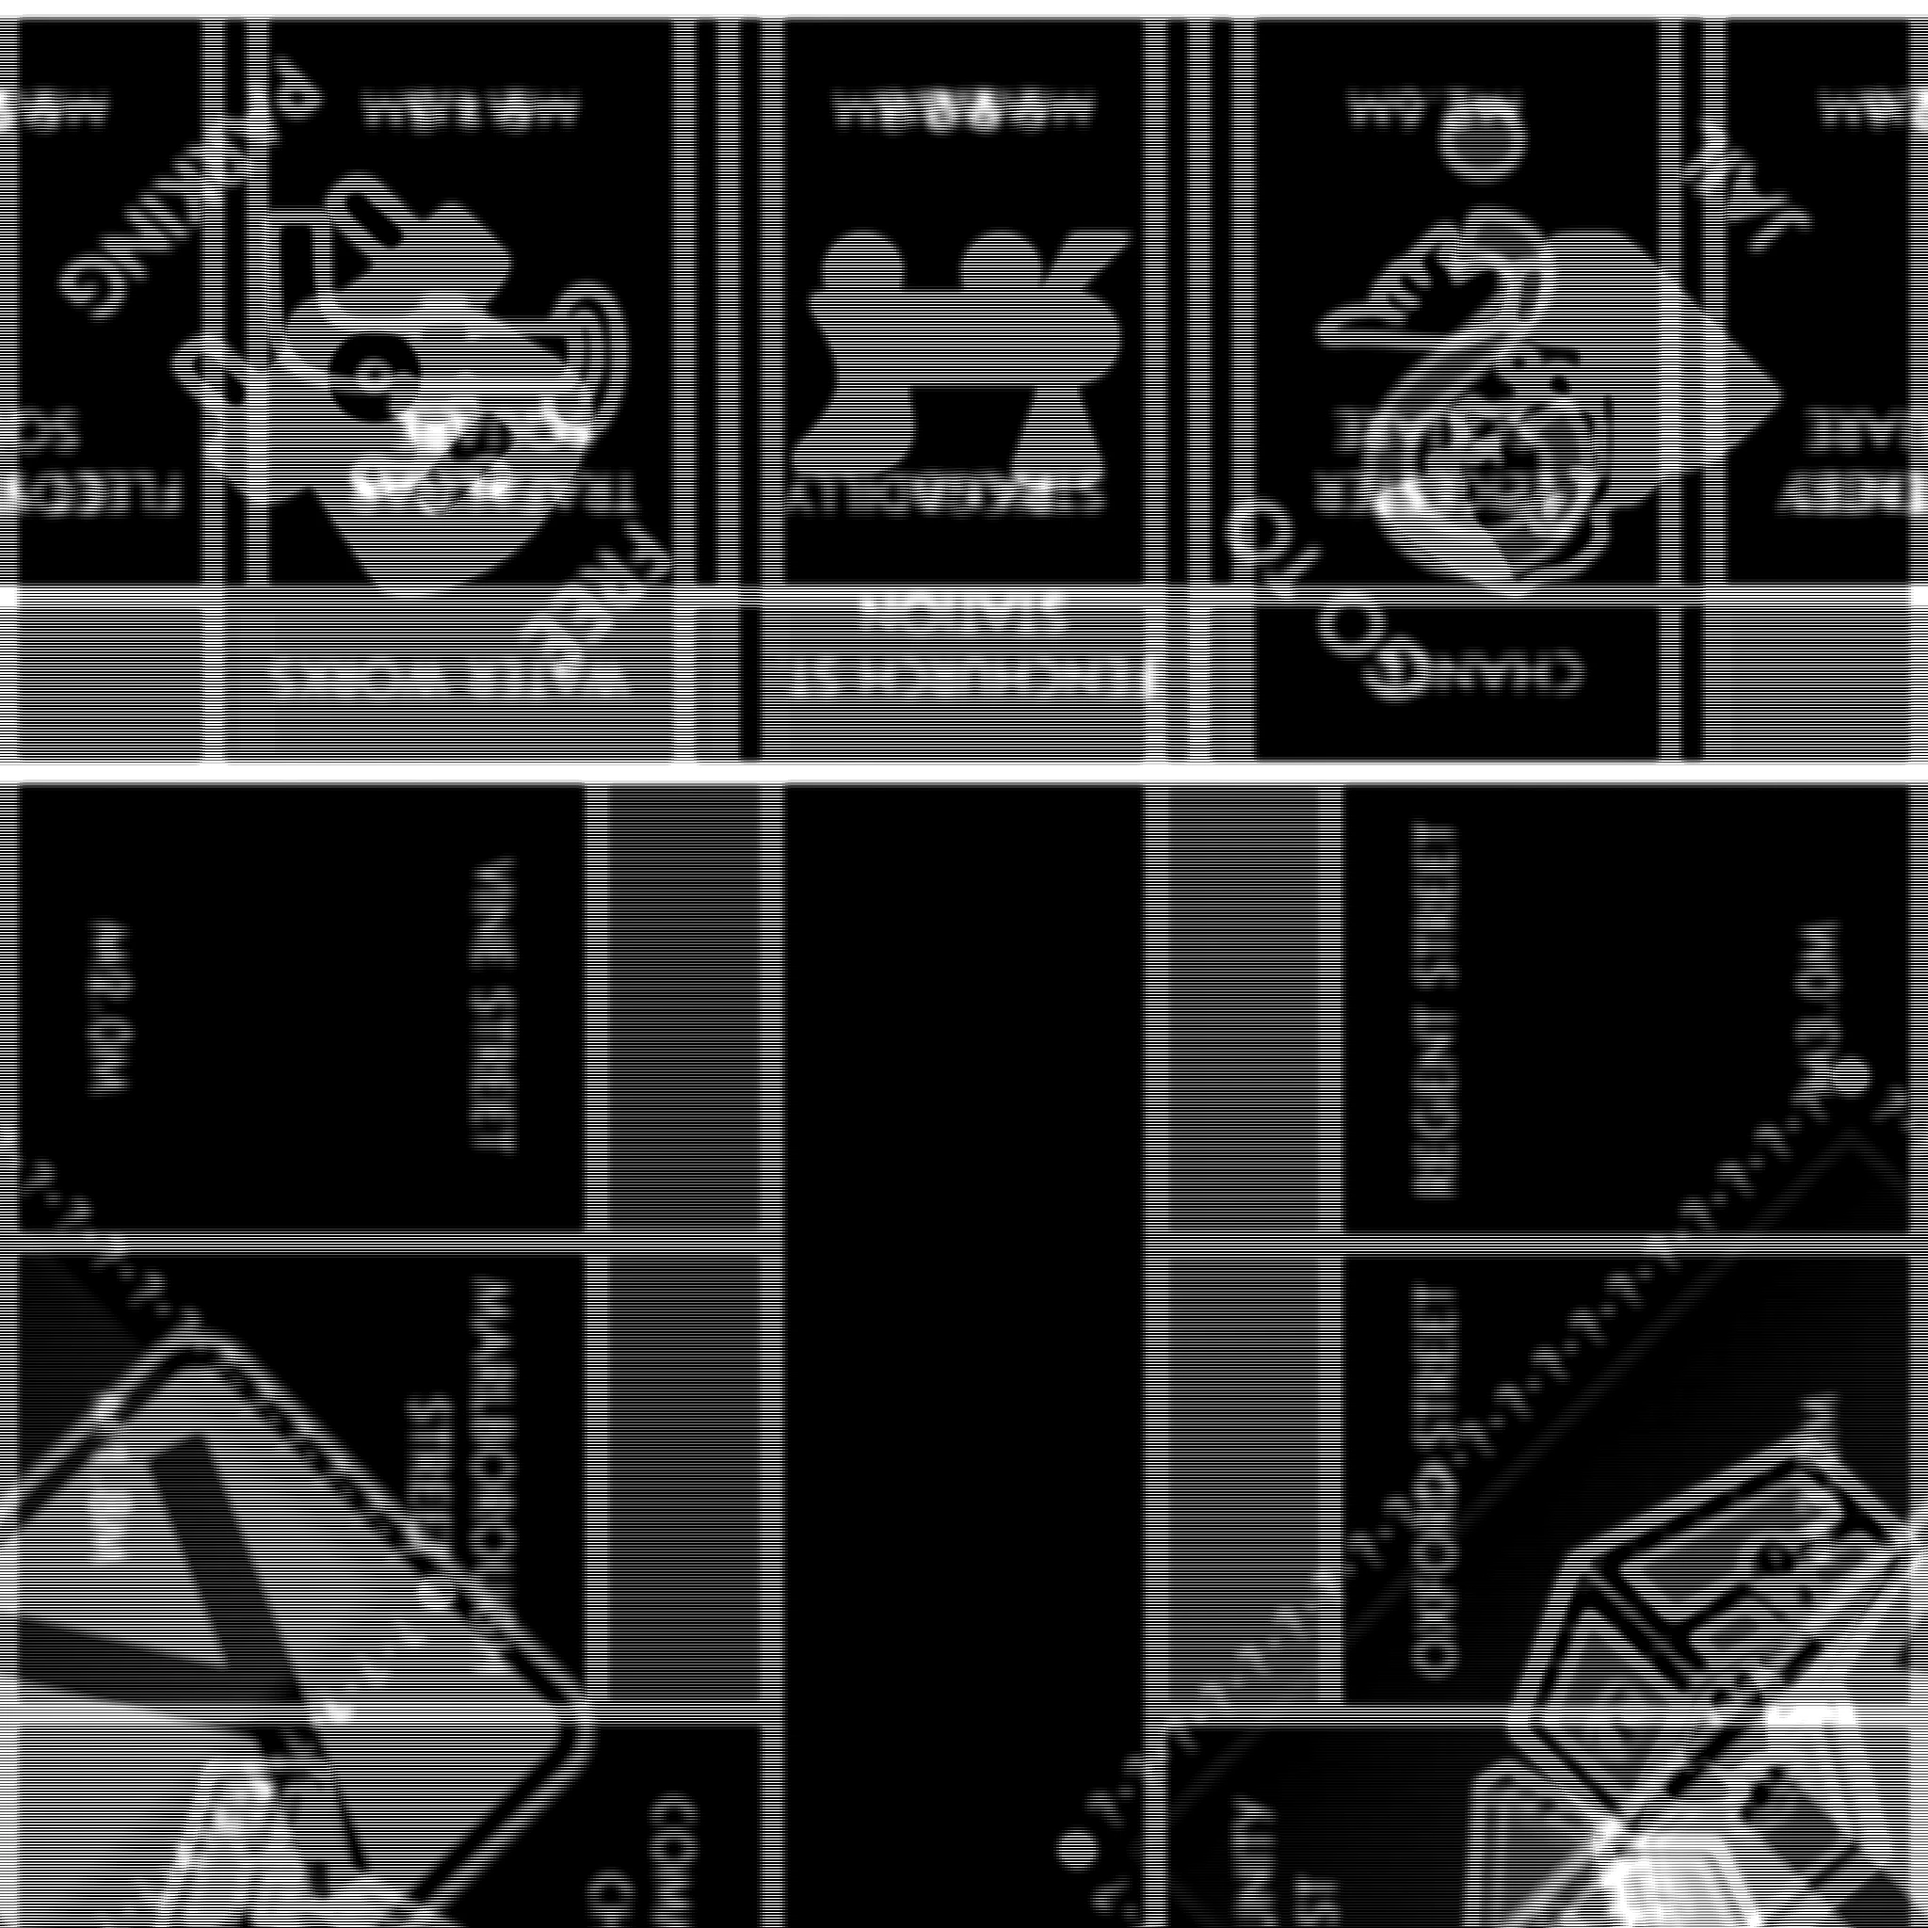
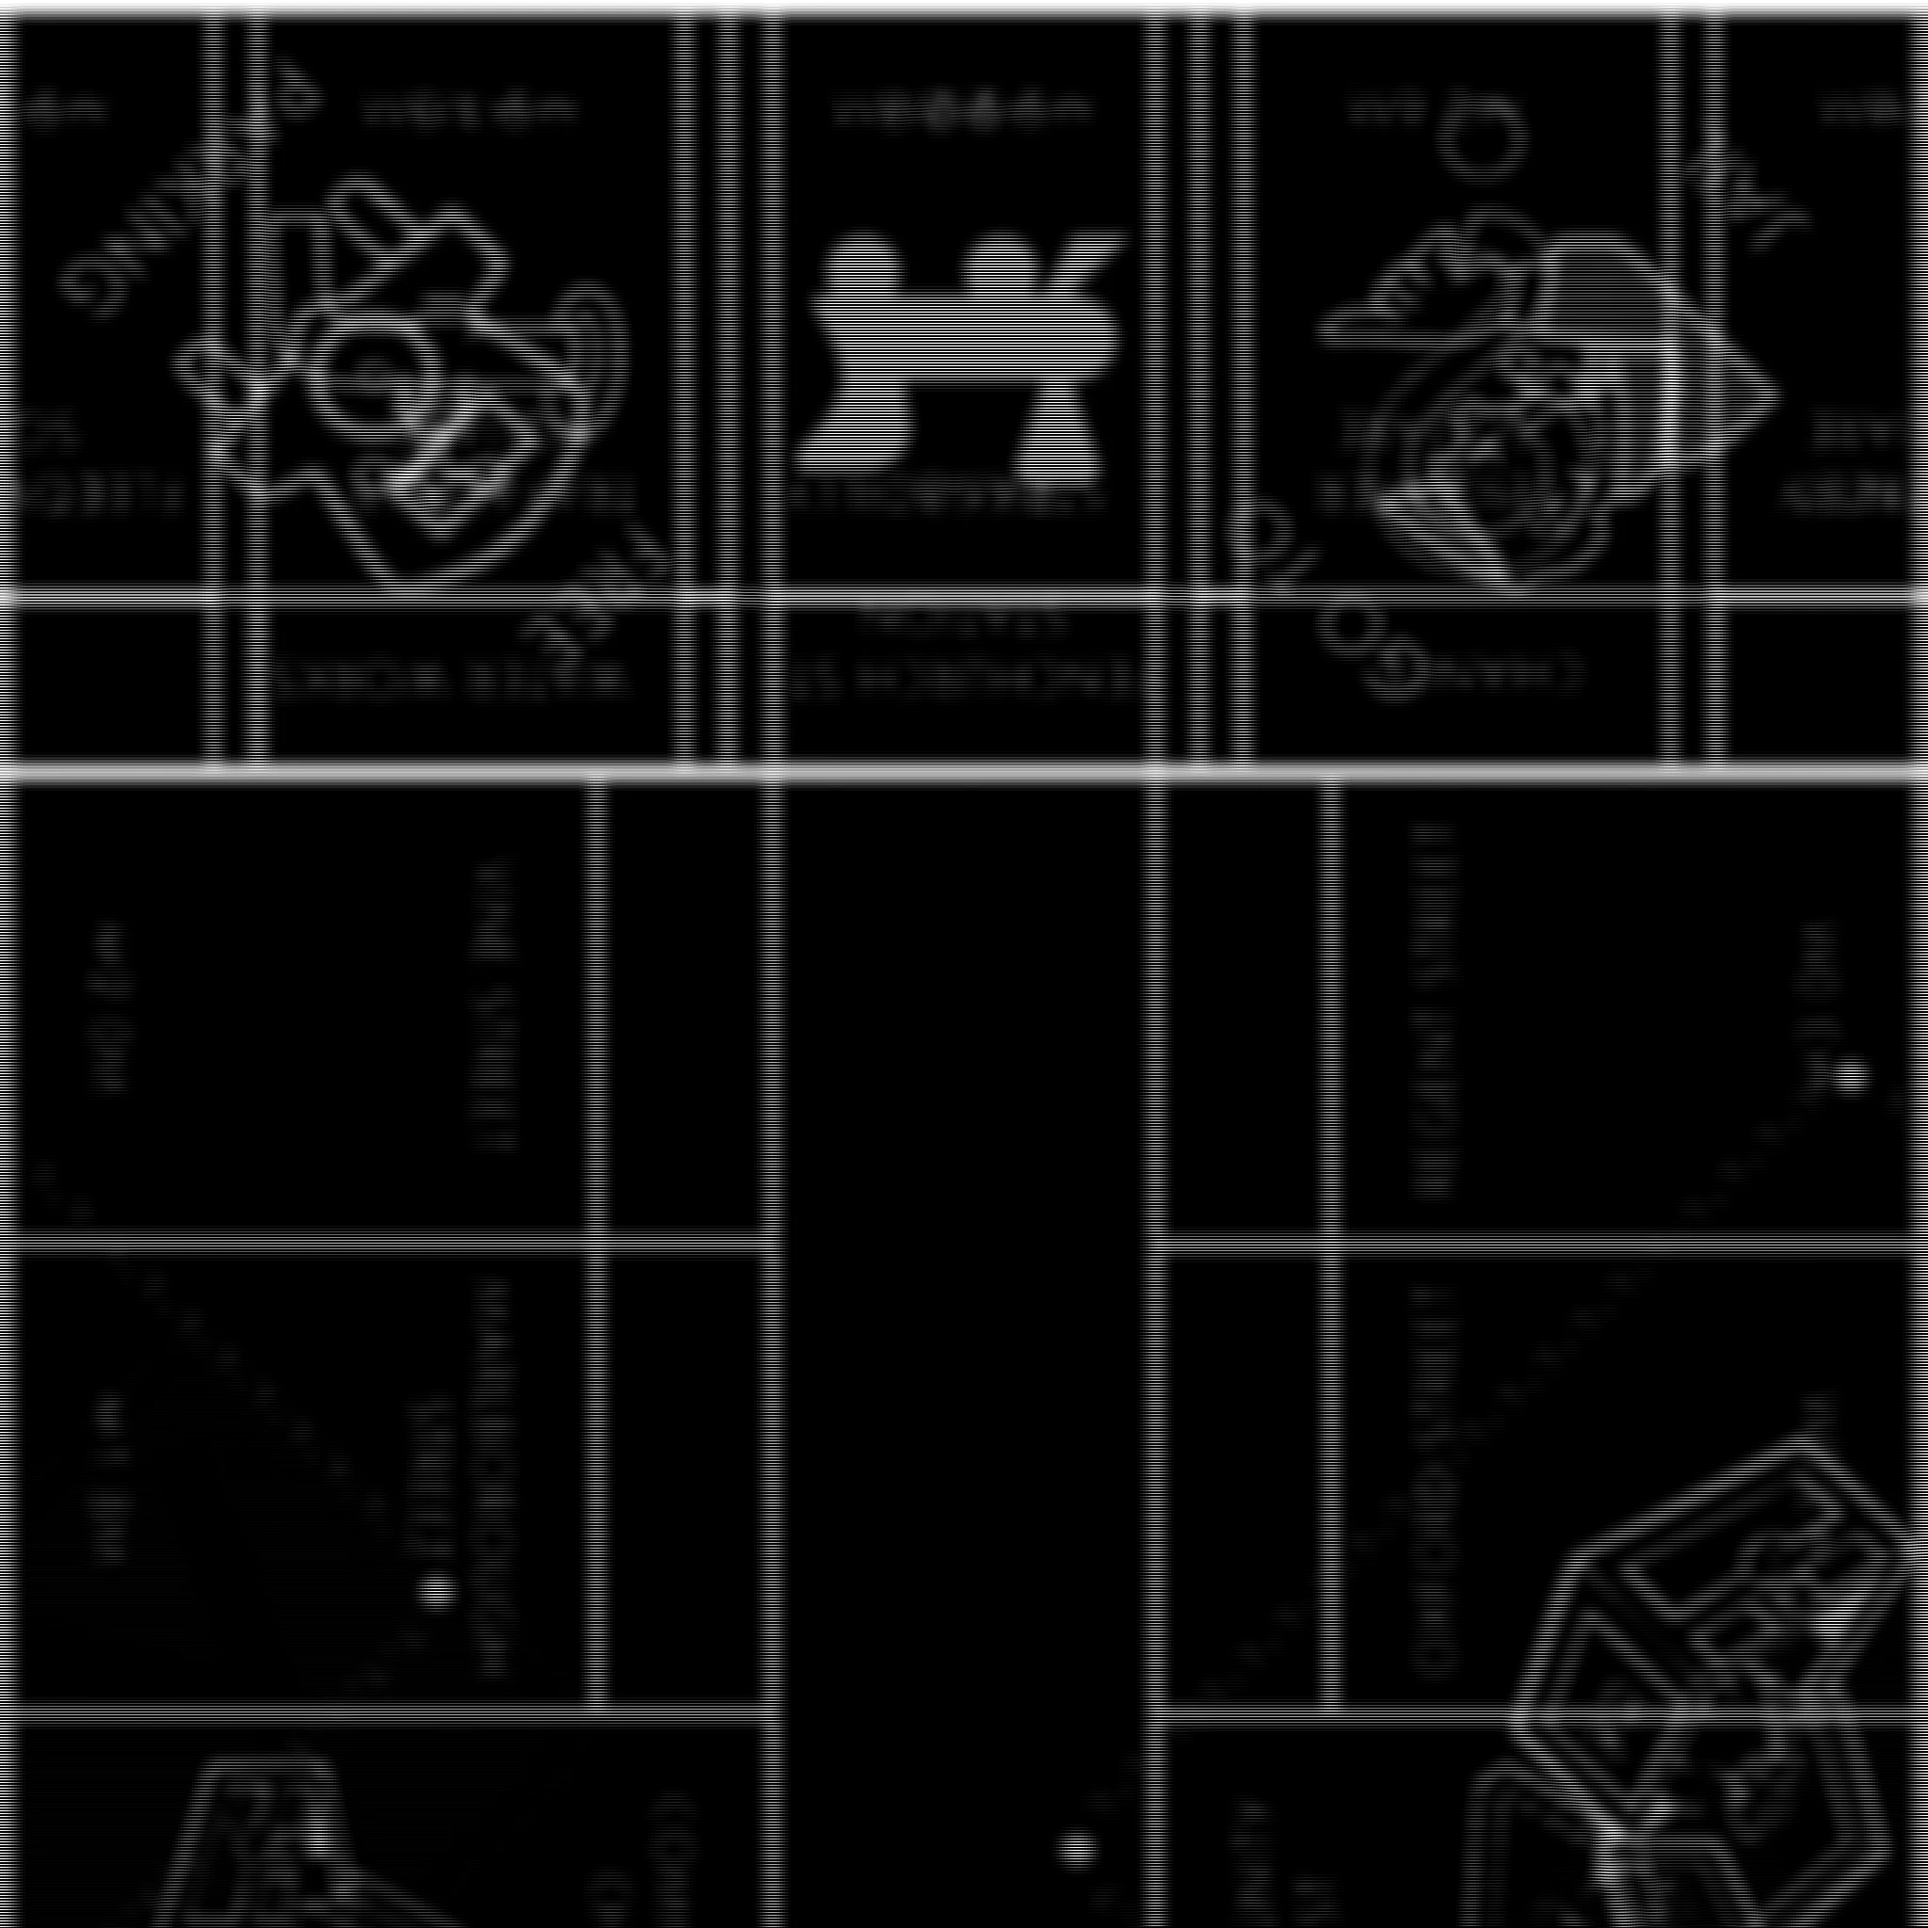
fix(board): ink-only smooth height bake — clean raised lines, no spikes
The displacement read as a noisy jagged mess: the old low-threshold height
bake ([0.12..0.55] dilate/remap) lifted the near-white tile faces' own texture
noise, which scale 0.15 amplified into spiky canyons.

- gen-board-normal.mjs (height output only; normal bake untouched): replace the
  low-threshold dilate/remap with a HIGH-gated smoothstep(INK_LO=0.55,
  INK_HI=0.85) on h = 1 - luminance so ONLY true black ink raises — paper,
  near-white faces and mid-tone colour strips all threshold to flat 0. Blur the
  thresholded field 2.5px AFTER the gate for clean beveled ridge sides (no
  spiky aliasing). Height map mean drops to ~16/255 (mostly flat).
- BoardTiles.tsx: BOARD_DISPLACEMENT_SCALE 0.15 -> 0.07 (moderate relief).
  displacementBias=0, segments 1024, height mipmaps OFF, normalScale 1.5 all
  unchanged. Displacement direction confirmed UP (+Y): plane normals are +Z,
  rotated -pi/2 about X -> +Y, so ink rises above the flat faces (no flip).
- CityDressing.tsx: CITY_Y 0.20 -> 0.12 (keeps 0.12 > 0.02+0.07, less float step).

Changed region(s): [[0.0, 0.0, 1.0, 1.0], [0.0312, 0.4688, 0.0625, 0.5625]]

diff --git a/src/board/BoardTiles.tsx b/src/board/BoardTiles.tsx
@@ -108,12 +108,16 @@ const BOARD_NORMAL_Y_SIGN = 1; // set to -1 if relief looks inverted
  *                             map's job; displacement is for borders/big features
  *                             + overall relief + silhouette). Mobile forces 0.
  *   BOARD_DISPLACEMENT_SCALE – world-unit height of the raised ink. Board is ~10
- *                             wide, tiles ~0.9; 0.04 reads as a firm embossed
- *                             print. Raise for more pop, lower if silhouette
- *                             looks lumpy or clips tokens/buildings.
+ *                             wide, tiles ~0.9; 0.07 reads as a firm embossed
+ *                             print with the ink-only smooth height bake. Raise
+ *                             for more pop, lower if silhouette looks lumpy or
+ *                             clips tokens/buildings. (Was 0.15 — that amplified
+ *                             the old noisy low-threshold bake into spiky canyons;
+ *                             0.07 + the ink-only smoothstep bake reads as clean
+ *                             raised lines/letters, not spikes.)
  */
 const BOARD_SEGMENTS = 1024;
-const BOARD_DISPLACEMENT_SCALE = 0.15;
+const BOARD_DISPLACEMENT_SCALE = 0.07;
 /**
  * Nudge the slab's flat top face just below the displaced plane so the original
  * flat top never coincides with (z-fights) the subdivided displaced surface.
@@ -230,9 +234,14 @@ export function BoardTiles() {
       BOARD_NORMAL_STRENGTH * BOARD_NORMAL_Y_SIGN,
     );
 
-    // REAL DISPLACEMENT: push the subdivided top plane's vertices +Y by
-    // height * scale. Height ≈ 0 (light paper) stays at the surface; height ≈ 1
-    // (dark ink) raises. Bias 0 so flat tile faces sit exactly at TOP_Y. This
+    // REAL DISPLACEMENT: push the subdivided top plane's vertices UP (+Y) by
+    // height * scale. Direction confirmed +Y: PlaneGeometry vertex normals are
+    // +Z; the plane mesh is rotated -π/2 about X, which maps +Z → +Y, so three's
+    // displacement (vertex += normal * displacementScale*height) pushes ink
+    // UPWARD above the flat faces (no normal flip needed). Height ≈ 0 (paper +
+    // near-white faces + colour strips, thresholded flat by the ink-only bake)
+    // stays exactly at the surface; height ≈ 1 (dark ink) raises. Bias 0 so flat
+    // tile faces sit exactly at TOP_Y (coplanar). This
     // only visibly deforms the dense plane below; the slab's coarse top face has
     // no interior verts to move and is dropped out of view anyway (SLAB_TOP_DROP).
     top.displacementMap = heightTex;

diff --git a/src/board/CityDressing.tsx b/src/board/CityDressing.tsx
@@ -56,7 +56,7 @@ import { useGLTF } from '@react-three/drei';
 const CITY_FILL_HALF = 3.55;  // target half-extent on X and Z axes (safely inside ±3.66 tile edge)
 const CITY_PAN_X = 0;         // world-X fine-tune (post-scale); 0 = bbox-centered on origin
 const CITY_PAN_Z = 0;         // world-Z fine-tune (post-scale); 0 = bbox-centered on origin
-const CITY_Y = 0.20;          // must exceed TOP_Y + BOARD_DISPLACEMENT_SCALE (BoardTiles): 0.20 > 0.02 + 0.15 = 0.17, so the taller displaced board plane doesn't occlude the city base
+const CITY_Y = 0.12;          // must exceed TOP_Y + BOARD_DISPLACEMENT_SCALE (BoardTiles): 0.12 > 0.02 + 0.07 = 0.09, so the raised displaced board plane doesn't occlude the city base (less float step at the city perimeter than the old 0.20)
 const CITY_ROT = 0;           // radians; nudge to aim streets toward the camera
 
 const CITY_URL = '/models/city.glb';
